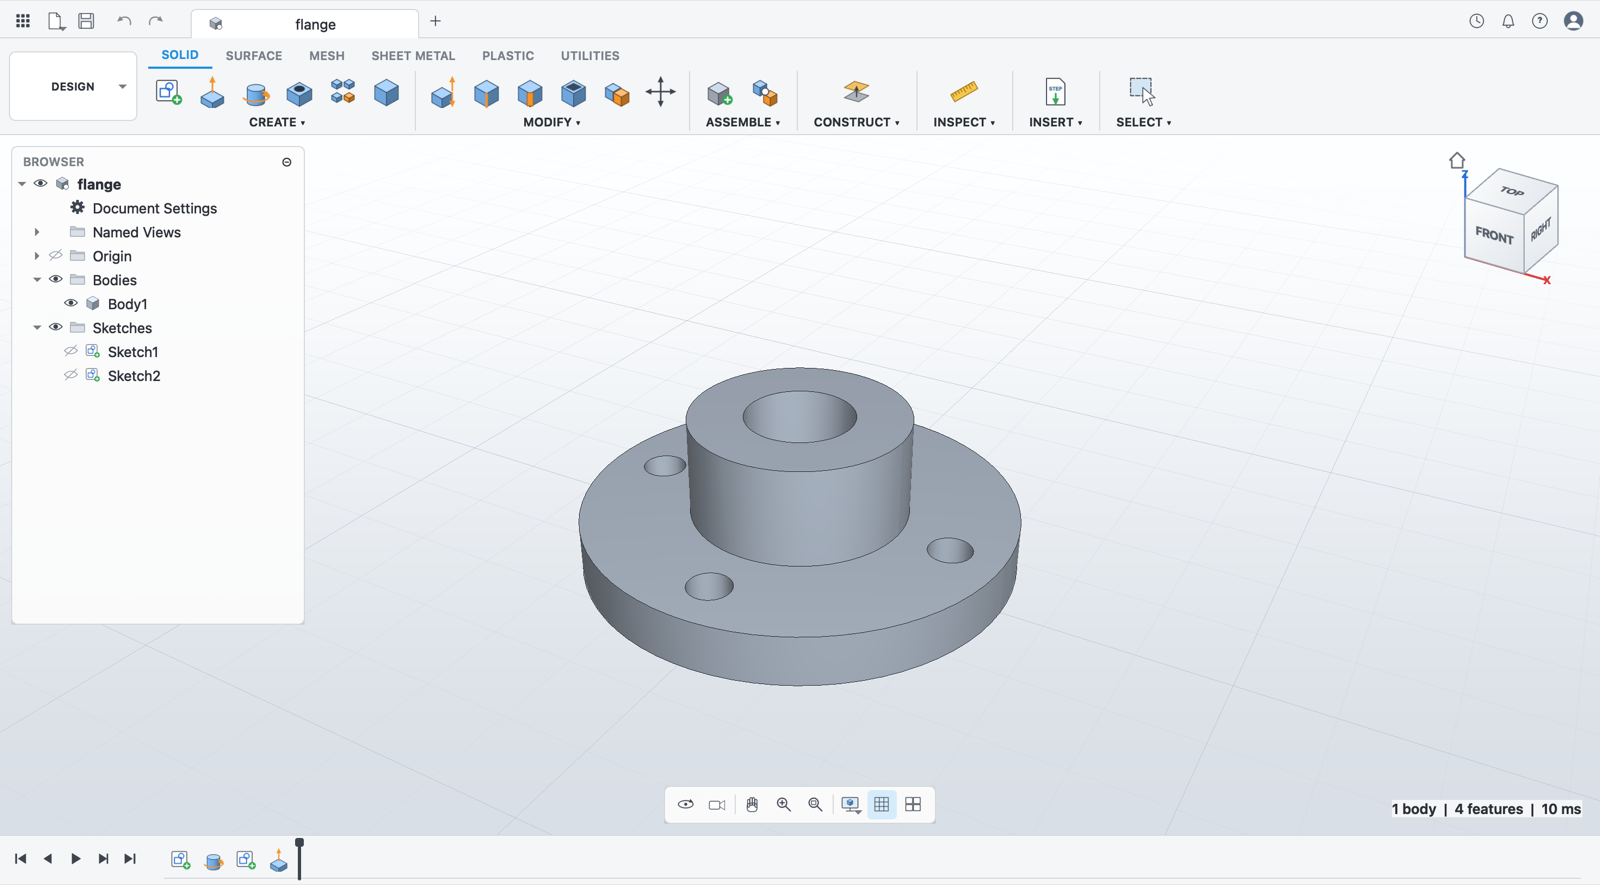
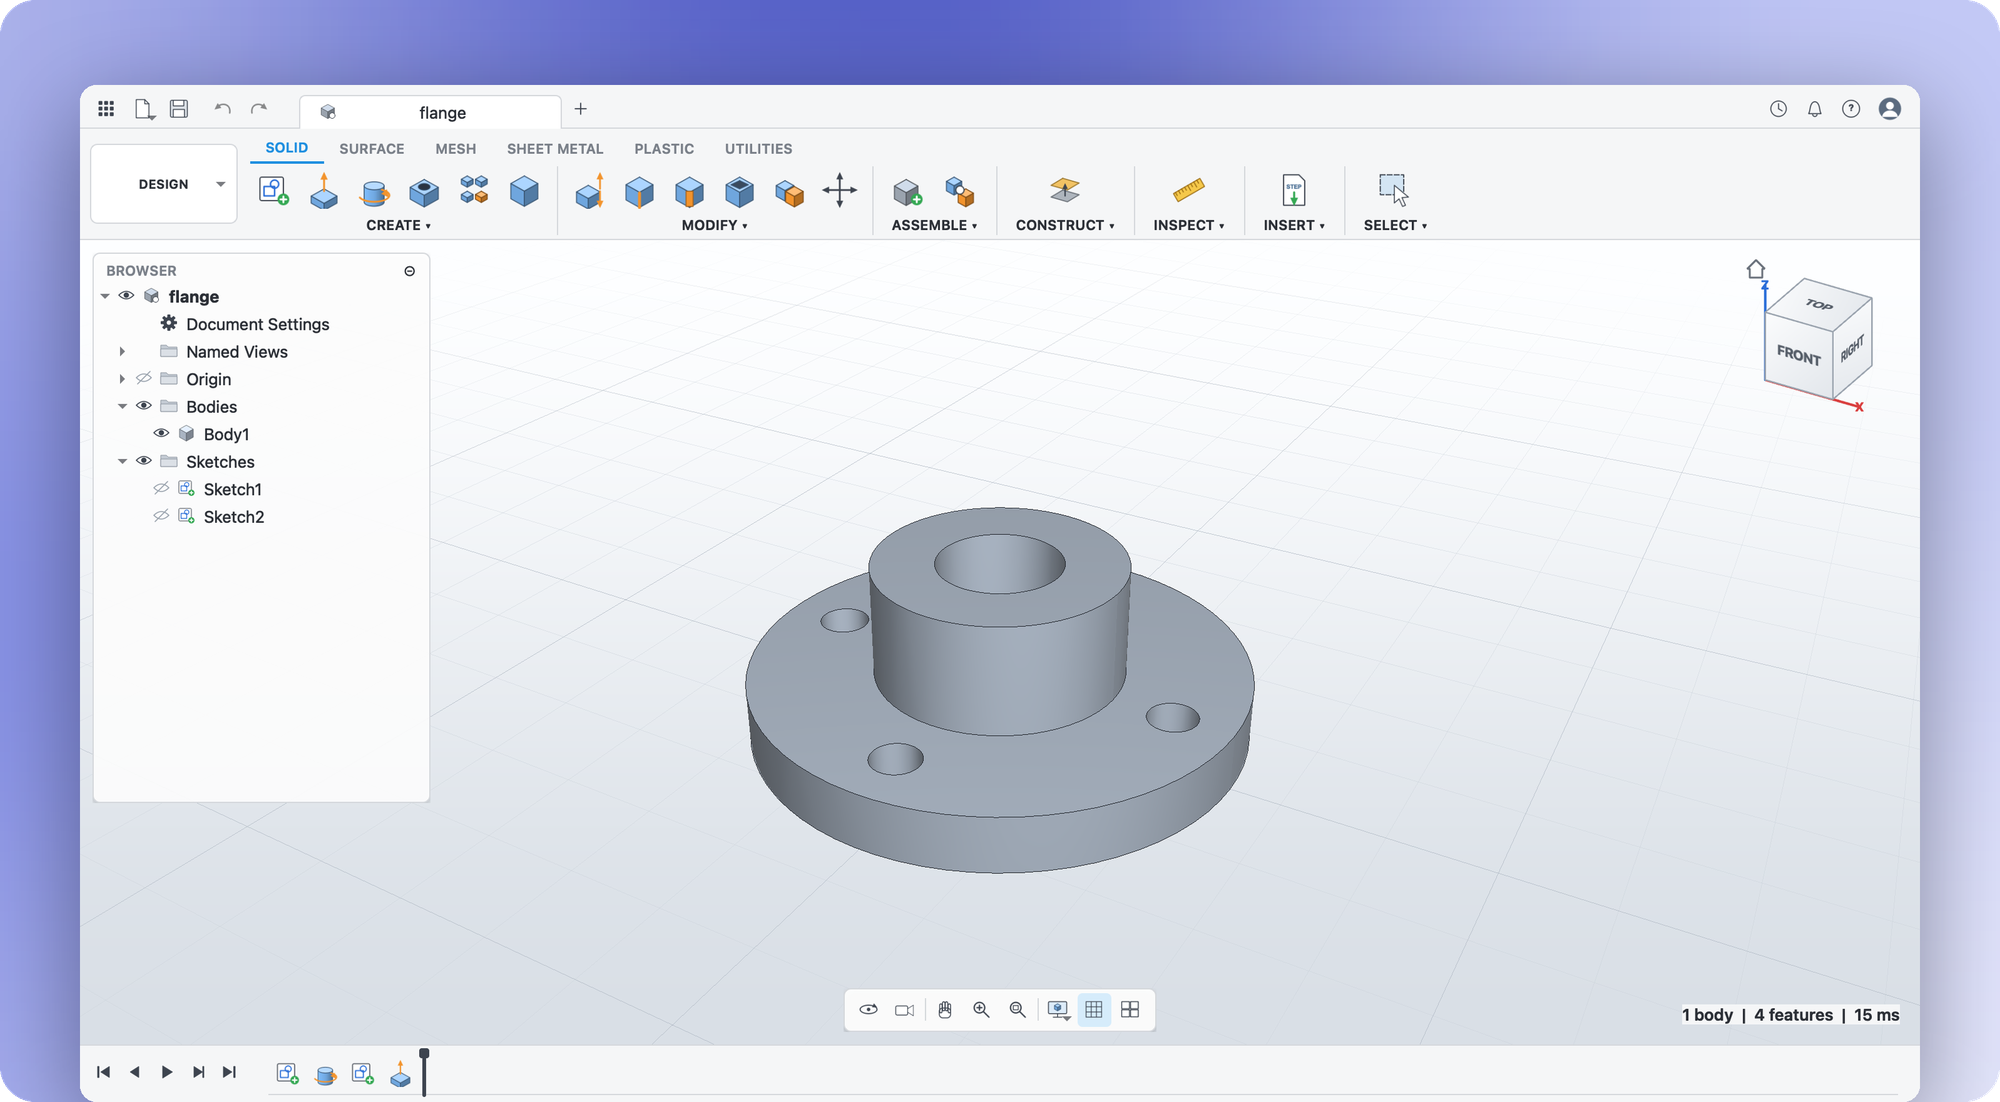
Add a README hero image and reposition the README
scripts/make-preview.py captures the flange sample and floats the window
on a gradient card in the brand colours. The README now describes the
full platform scope instead of individual modelling features, and the
roadmap covers every area it names.

diff --git a/scripts/make-preview.py b/scripts/make-preview.py
@@ -1,0 +1,117 @@
+#!/usr/bin/env python3
+# SPDX-License-Identifier: GPL-3.0-or-later
+"""Build the README hero image (docs/images/screenshot.png).
+
+Usage:
+    scripts/make-preview.py              capture the flange sample from build/dev, then compose
+    scripts/make-preview.py shot.png     compose from an existing capture
+
+The capture is the app's own --screenshot output, or a macOS window capture
+(Cmd-Shift-4, Space, click; its transparent margin and shadow are trimmed).
+The window gets rounded corners and a soft shadow, and floats on a blurred
+gradient card in the brand colours, running off the bottom edge. Needs Pillow.
+"""
+import subprocess
+import sys
+import tempfile
+from pathlib import Path
+
+from PIL import Image, ImageDraw, ImageFilter
+
+ROOT = Path(__file__).resolve().parent.parent
+OUT = ROOT / "docs" / "images" / "screenshot.png"
+APP = ROOT / "build/dev/apps/fusecad/fusecad.app/Contents/MacOS/fusecad"
+CLI = ROOT / "build/dev/apps/fusecad-cli/fusecad-cli"
+
+CANVAS_W = 3200
+WINDOW_FRACTION = 0.92  # window width as a share of the canvas width
+WINDOW_TOP = 136
+WINDOW_RADIUS = 26
+CARD_RADIUS = 56
+SHADOW_BLUR = 70
+SHADOW_OFFSET = 44
+SHADOW_ALPHA = 110
+OUTPUT_WIDTH = 2000  # final PNG width; keeps the README image light
+
+
+def capture(tmp: Path) -> Path:
+    doc, shot = tmp / "flange.fcad", tmp / "shot.png"
+    subprocess.run([CLI, "new", doc, "--sample", "flange"], check=True, capture_output=True)
+    subprocess.run([APP, doc, "--screenshot", shot], check=True)
+    return shot
+
+
+def window_bbox(im: Image.Image):
+    """Bounds of the fully opaque window, ignoring a capture's soft shadow."""
+    return im.getchannel("A").point(lambda v: 255 if v > 250 else 0).getbbox()
+
+
+def rounded_mask(size, radius):
+    mask = Image.new("L", size, 0)
+    ImageDraw.Draw(mask).rounded_rectangle((0, 0, size[0] - 1, size[1] - 1), radius, fill=255)
+    return mask
+
+
+def backdrop(size):
+    """Soft gradient in the logo's indigo tones: painted small, blurred, scaled up."""
+    w, h = size
+    small = (200, round(200 * h / w))
+    bg = Image.new("RGB", small, (150, 156, 214))
+    d = ImageDraw.Draw(bg)
+    sw, sh = small
+    blobs = [
+        # (cx, cy, rx, ry, colour) as fractions of the small canvas
+        (0.10, 0.08, 0.45, 0.40, (214, 218, 248)),
+        (0.55, 0.02, 0.42, 0.30, (60, 72, 190)),
+        (0.96, 0.22, 0.30, 0.45, (196, 202, 246)),
+        (0.30, 0.95, 0.55, 0.32, (222, 225, 250)),
+        (0.86, 0.96, 0.40, 0.32, (230, 232, 252)),
+        (0.02, 0.60, 0.22, 0.35, (110, 122, 222)),
+    ]
+    for cx, cy, rx, ry, colour in blobs:
+        d.ellipse((sw * (cx - rx), sh * (cy - ry), sw * (cx + rx), sh * (cy + ry)), fill=colour)
+    bg = bg.filter(ImageFilter.GaussianBlur(28))
+    return bg.resize(size, Image.BICUBIC).convert("RGBA")
+
+
+def compose(src: Path):
+    shot = Image.open(src).convert("RGBA")
+    box = window_bbox(shot)
+    if box is None:
+        sys.exit(f"{src}: no opaque region found")
+    window = shot.crop(box)
+
+    target_w = round(CANVAS_W * WINDOW_FRACTION)
+    window = window.resize((target_w, round(window.height * target_w / window.width)), Image.LANCZOS)
+    window.putalpha(rounded_mask(window.size, WINDOW_RADIUS))
+
+    # The card ends at the window's bottom edge, so the whole UI stays visible
+    # while the window still reads as running off the frame.
+    canvas = backdrop((CANVAS_W, WINDOW_TOP + window.height))
+    x, y = (CANVAS_W - window.width) // 2, WINDOW_TOP
+
+    pad = SHADOW_BLUR * 3
+    shadow = Image.new("RGBA", (window.width + 2 * pad, window.height + 2 * pad), (0, 0, 0, 0))
+    ImageDraw.Draw(shadow).rounded_rectangle(
+        (pad, pad, pad + window.width - 1, pad + window.height - 1), WINDOW_RADIUS, fill=(20, 24, 70, SHADOW_ALPHA)
+    )
+    canvas.alpha_composite(shadow.filter(ImageFilter.GaussianBlur(SHADOW_BLUR)), (x - pad, y - pad + SHADOW_OFFSET))
+    canvas.alpha_composite(window, (x, y))
+    canvas.putalpha(rounded_mask(canvas.size, CARD_RADIUS))
+
+    canvas = canvas.resize((OUTPUT_WIDTH, round(canvas.height * OUTPUT_WIDTH / canvas.width)), Image.LANCZOS)
+    OUT.parent.mkdir(parents=True, exist_ok=True)
+    canvas.save(OUT, optimize=True)
+    print(f"wrote {OUT.relative_to(ROOT)} ({canvas.width}x{canvas.height})")
+
+
+def main():
+    if len(sys.argv) > 1:
+        compose(Path(sys.argv[1]))
+        return
+    with tempfile.TemporaryDirectory() as tmp:
+        compose(capture(Path(tmp)))
+
+
+if __name__ == "__main__":
+    main()

diff --git a/README.md b/README.md
@@ -5,32 +5,31 @@
   </picture>
 </p>
 
-<p align="center"><b>Open-source parametric CAD.</b> Sketch, constrain, extrude, fillet; change a parameter and the whole design regenerates.</p>
+<p align="center"><b>Professional 3D CAD, CAM and CAE. Free and open source.</b></p>
 
-![FuseCAD modelling a parametric flange](docs/images/screenshot.png)
+![FuseCAD](docs/images/screenshot.png)
 
-FuseCAD is a history-based solid modeller written in C++20 on
-[OpenCASCADE](https://occt3d.com) and Qt 6. Every dimension can be an
-expression over named parameters, and every feature is a step on an editable
-timeline.
+FuseCAD is one application for the whole product-development workflow, from
+the first sketch to the part on the machine. No subscriptions, no cloud
+lock-in, no feature tiers: every capability is free, and your designs stay in
+open files on your own disk.
 
-**Status:** pre-release. The parametric core, kernel and desktop shell work;
-interactive sketching and feature editing in the viewport are next. See the
-[roadmap](docs/ROADMAP.md).
+## One platform
 
-## Features
+- **Design:** parametric solid, surface and sheet-metal modelling on a full history timeline
+- **Assemble:** components, joints and motion studies
+- **Document:** production drawings generated from the 3D model
+- **Manufacture:** CAM toolpaths for milling, turning and additive
+- **Simulate:** structural, thermal and modal analysis
+- **Electronics:** schematics and PCBs linked to the mechanical design
 
-- **Parameters:** named expressions with units (`mm`, `in`, `deg`, ...) and functions
-- **Sketcher:** lines, arcs, circles; 17 constraints; degree-of-freedom analysis
-- **Features:** extrude, revolve, fillet, chamfer, boolean join/cut/intersect, STEP import
-- **Timeline:** rollback, suppress, rename, undo/redo
-- **Files:** `.fcad` (plain JSON); STEP and STL export
-- **CLI:** `fusecad-cli` creates, inspects, re-parameterises and exports designs headlessly
+**Status:** pre-release, in active development. The [roadmap](docs/ROADMAP.md)
+shows what works today and what comes next.
 
 ## Build
 
-Requires CMake ≥ 3.25, Ninja, a C++20 compiler, OpenCASCADE ≥ 7.8, Qt ≥ 6.5,
-nlohmann-json and doctest.
+Requires CMake ≥ 3.25, Ninja, a C++20 compiler, [OpenCASCADE](https://occt3d.com) ≥ 7.8,
+Qt ≥ 6.5, nlohmann-json and doctest.
 
 macOS:
 
@@ -46,14 +45,6 @@ Ubuntu 26.04:
 sudo apt install cmake ninja-build g++ nlohmann-json3-dev doctest-dev \
   libocct-data-exchange-dev qt6-base-dev libgl-dev
 cmake --preset dev && cmake --build --preset dev && ctest --preset dev
-```
-
-From the command line:
-
-```sh
-cli=build/dev/apps/fusecad-cli/fusecad-cli
-$cli new plate.fcad --sample plate
-$cli export plate.fcad plate.step -p width=120mm
 ```
 
 ## Learn more

diff --git a/docs/ROADMAP.md b/docs/ROADMAP.md
@@ -79,9 +79,12 @@ Worked on alongside every milestone, and required for 1.0.
 - [ ] User documentation and a getting-started tutorial
 
 ## Later
-- [ ] Drawings: 2D views and dimensions from the 3D model
-- [ ] CAM: toolpath generation
-- [ ] Simulation: linear static FEA
-- [ ] Electronics: schematic and PCB linked to the mechanical model
+The rest of the platform, after 1.0.
+- [ ] Surface modelling and sheet metal
+- [ ] Motion studies for assemblies
+- [ ] Drawings: production drawings with views and dimensions from the 3D model
+- [ ] CAM: milling, turning and additive toolpaths
+- [ ] Simulation: structural, thermal and modal analysis
+- [ ] Electronics: schematics and PCBs linked to the mechanical design
 - [ ] Python scripting API
 - [ ] Dark theme

diff --git a/CONTRIBUTING.md b/CONTRIBUTING.md
@@ -9,6 +9,9 @@ expect from a change.
 2. `cmake --preset dev && cmake --build --preset dev && ctest --preset dev`
 3. Run the app with `scripts/run.sh`, or `scripts/watch.sh` to rebuild on every save.
 
+After a visible UI change, refresh the README image with `scripts/make-preview.py`
+(needs Pillow). It captures the flange sample from `build/dev` and composes it.
+
 | Preset | Purpose |
 |---|---|
 | `dev` | Debug build of everything, warnings as errors |
